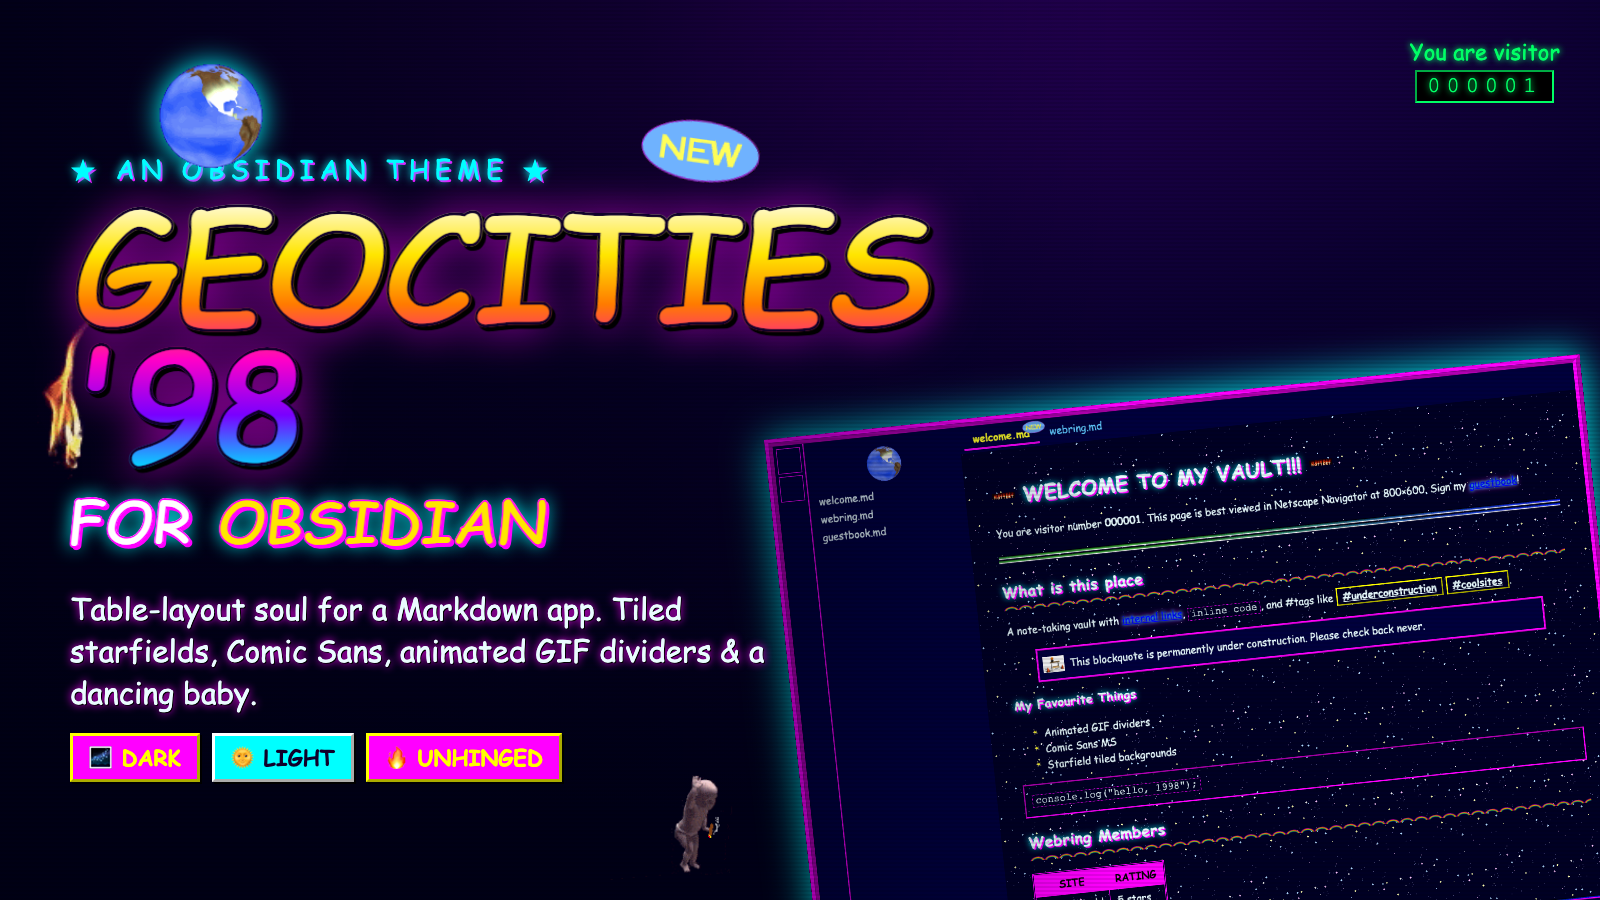
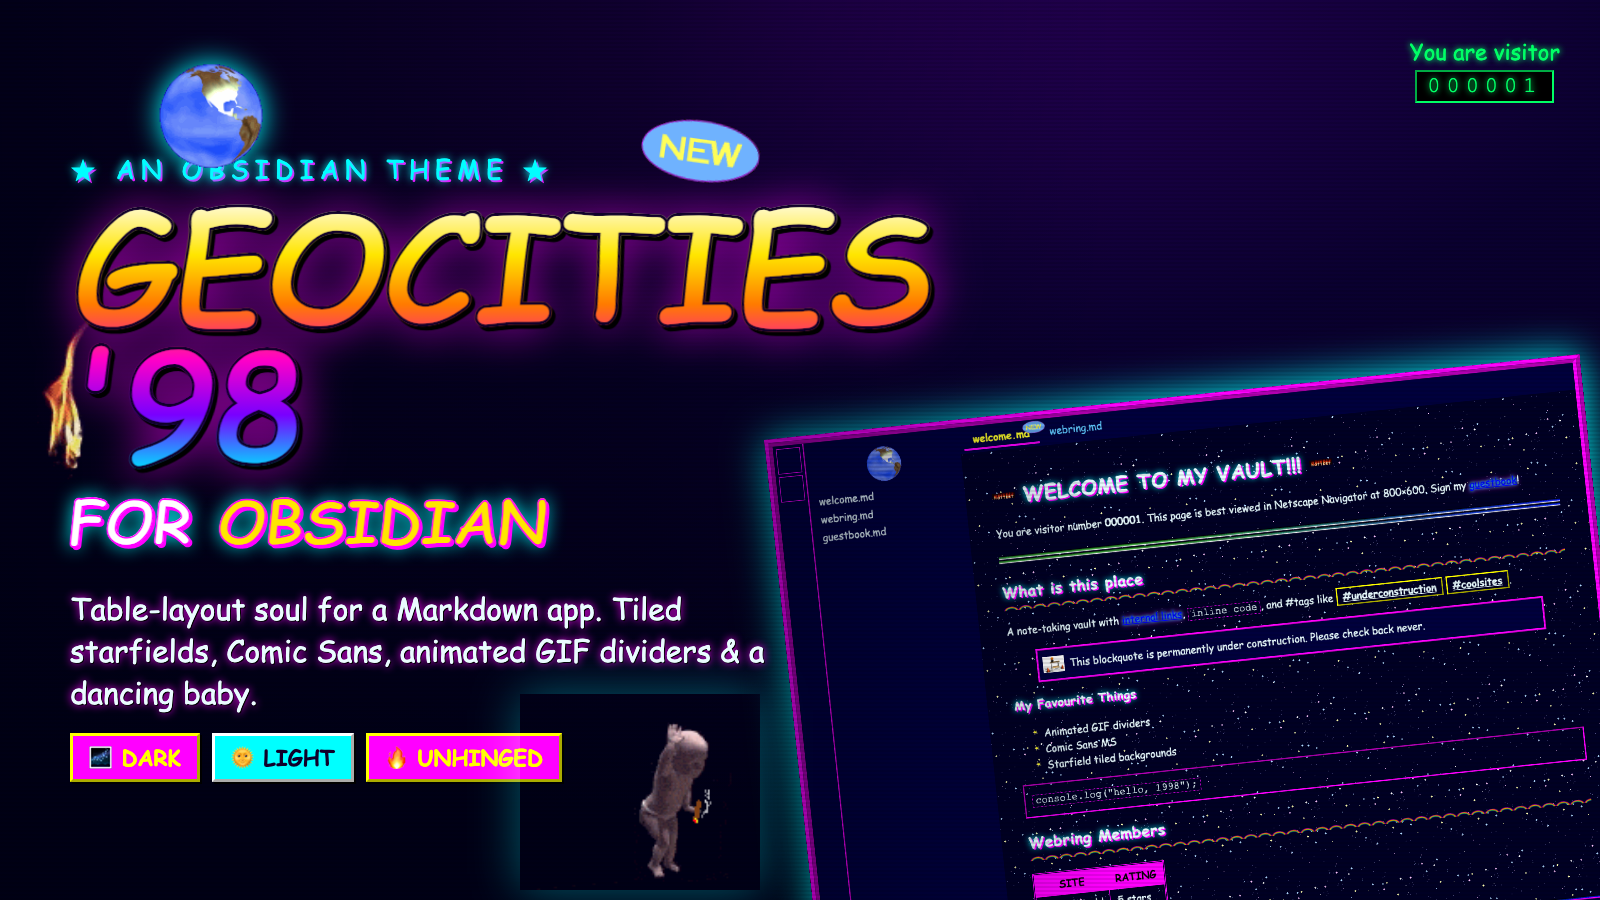
Embiggen the dancing baby (theme corner + promo art)

Changed region(s): [[0.3125, 0.7467, 0.5, 1.0]]

diff --git a/theme.css b/theme.css
@@ -364,8 +364,8 @@ button:not(.clickable-icon):active { border-style: inset !important; }
 .workspace::after {
   content: "";
   position: fixed;
-  right: 10px; bottom: 34px;
-  width: 56px; height: 74px;
+  right: 14px; bottom: 34px;
+  width: 104px; height: 138px;
[1 lines of base64/hex data omitted]
   mix-blend-mode: screen;
   pointer-events: none;

diff --git a/promo.src.html b/promo.src.html
@@ -58,8 +58,8 @@
   /* GIF furniture */
   .globe{ position:absolute; left:150px; top:60px; width:120px; z-index:4;
     filter:drop-shadow(0 0 14px #00ffff); }
-  .baby{ position:absolute; left:600px; bottom:20px; width:150px; z-index:7;
-    mix-blend-mode:screen; }
+  .baby{ position:absolute; left:520px; bottom:10px; width:240px; z-index:7;
+    mix-blend-mode:screen; filter:drop-shadow(0 0 24px rgba(0,255,255,.35)); }
   .fireL{ position:absolute; left:18px; top:300px; width:80px; z-index:4; mix-blend-mode:screen; }
   .new{ position:absolute; left:640px; top:120px; width:120px; z-index:6; transform:rotate(8deg); }
   .visitor{ position:absolute; right:40px; top:36px; z-index:6; text-align:center;

diff --git a/theme.src.css b/theme.src.css
@@ -364,8 +364,8 @@ button:not(.clickable-icon):active { border-style: inset !important; }
 .workspace::after {
   content: "";
   position: fixed;
-  right: 10px; bottom: 34px;
-  width: 56px; height: 74px;
+  right: 14px; bottom: 34px;
+  width: 104px; height: 138px;
   background: url("__BABY__") no-repeat center / contain;
   mix-blend-mode: screen;
   pointer-events: none;
